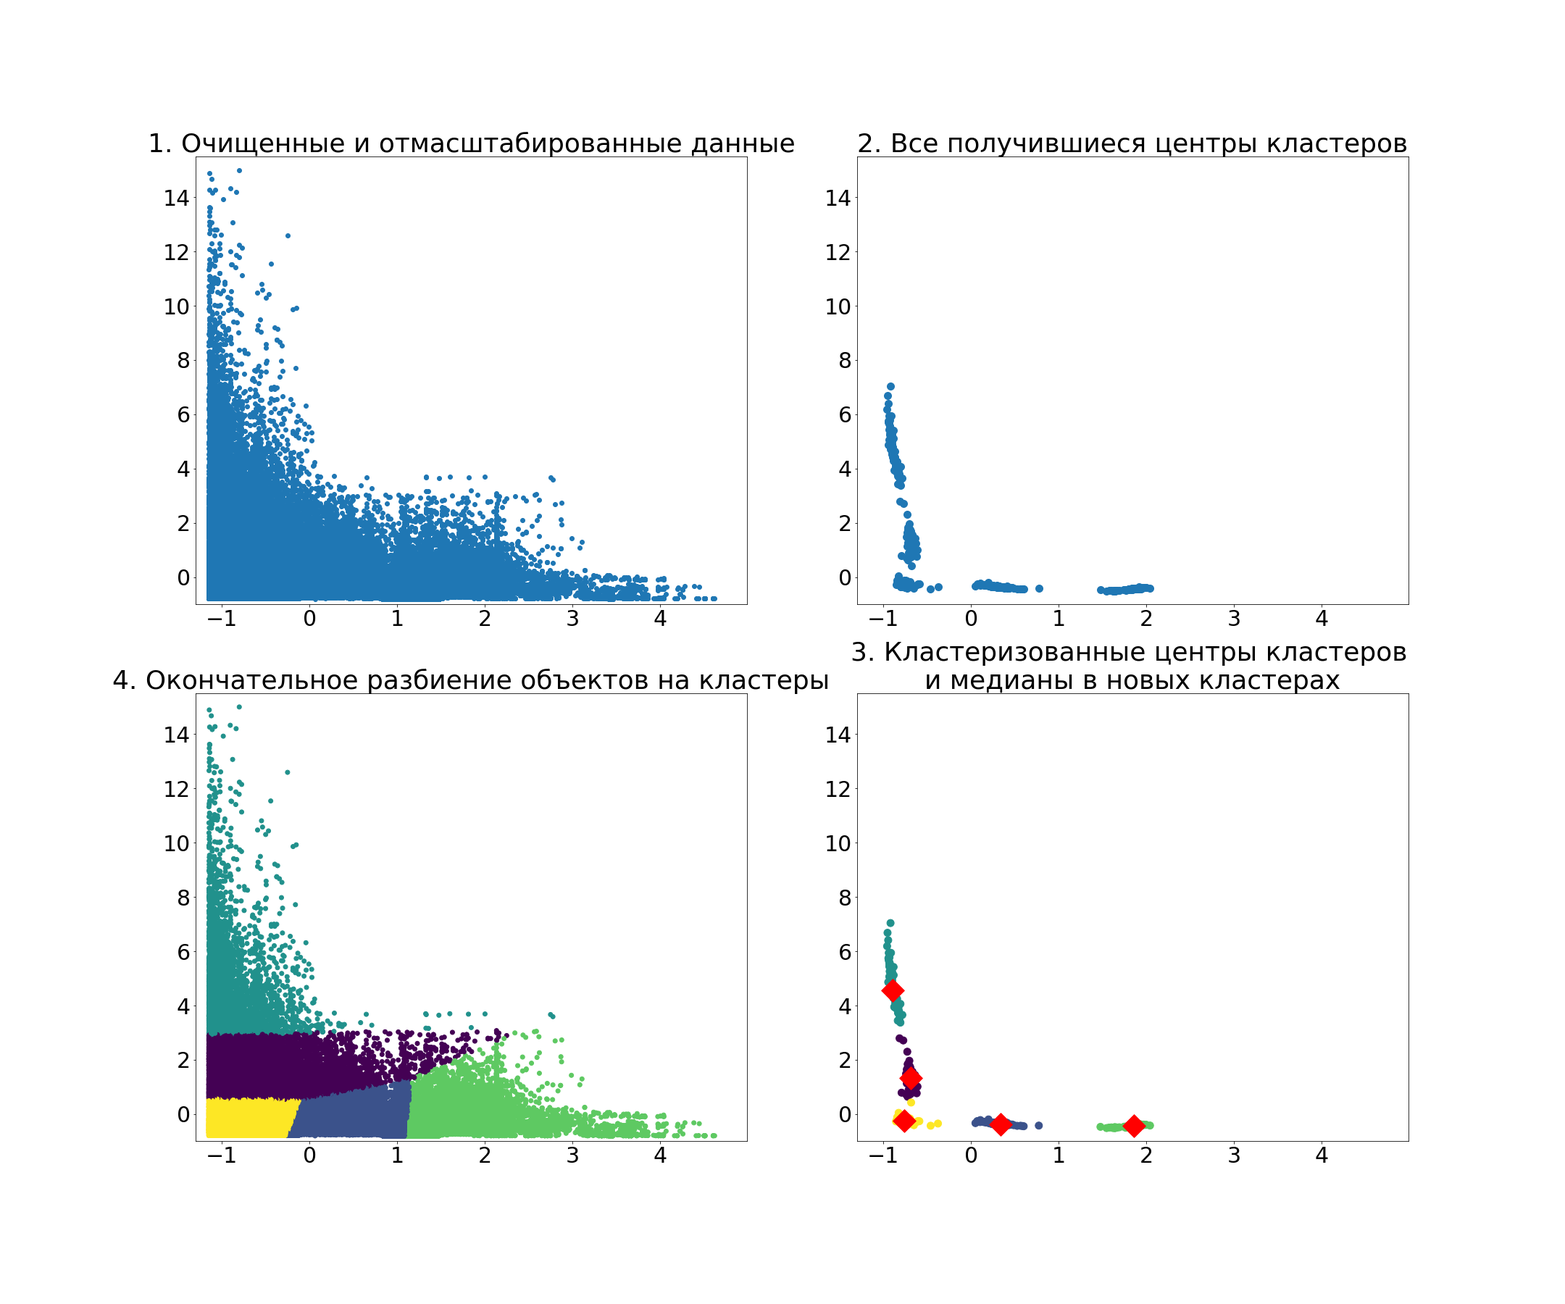
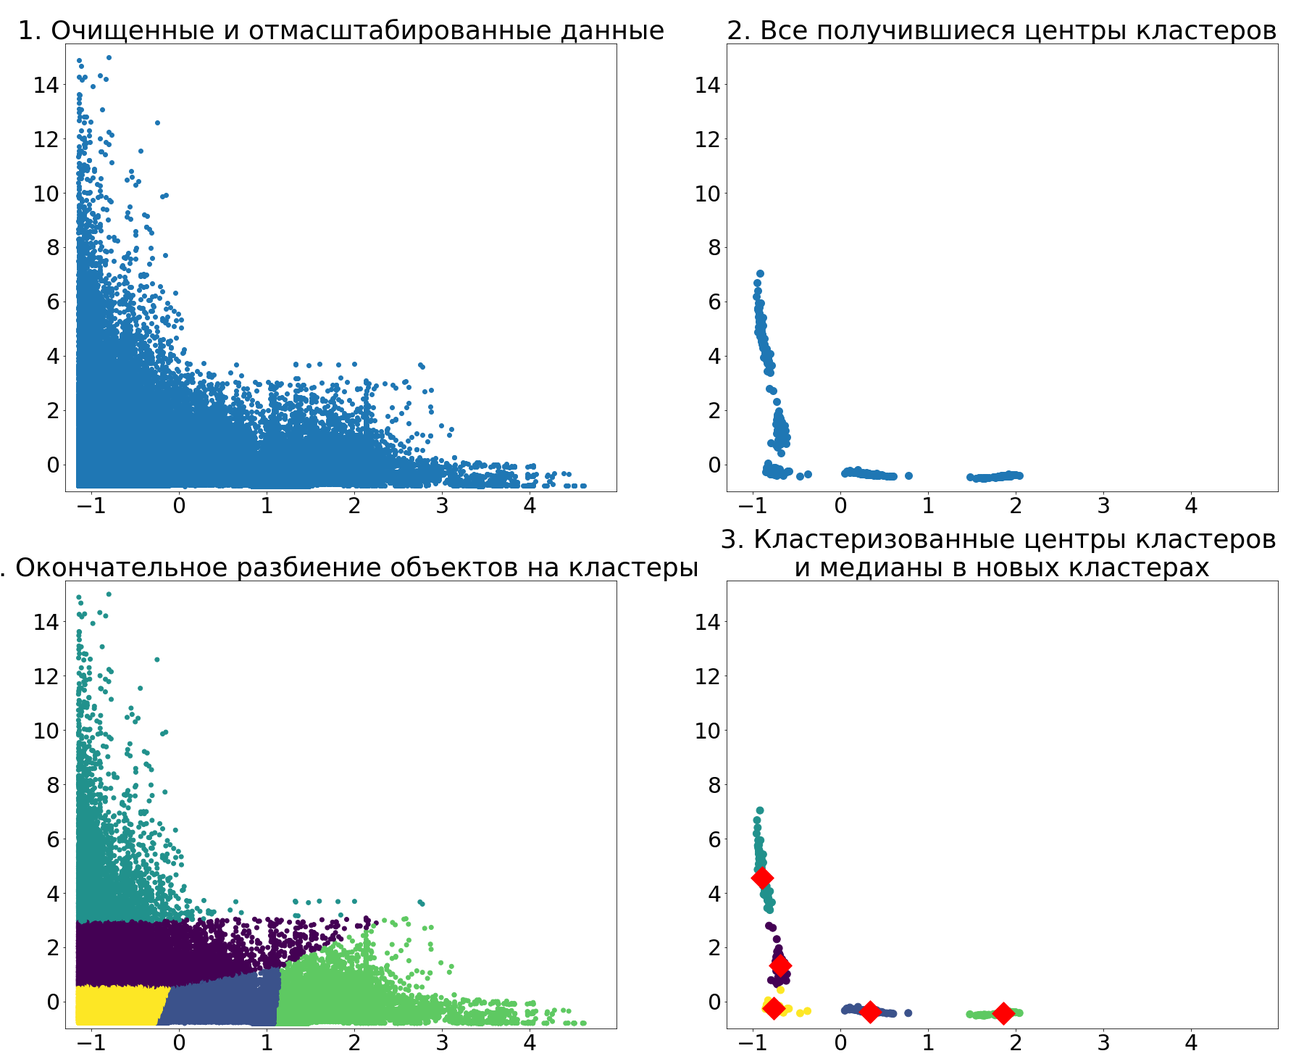
1-st edition

diff --git a/Статья/ArticleRFM .md b/Статья/ArticleRFM .md
@@ -107,11 +107,15 @@
 
 Ясное дело, прежде всего данные нужно очистить (ну, типа все величины неотрицательные). Об этом не буду подробно, скажу лишь, что обычно все было хорошо и лишь изредка на данном этапе отбрасывались 2-3 экземпляра.
 
-Обычно данные из базы примерно такие (здесь и далее использую 2D графику вместо 3D для понятности, а также не указываю размерности, т.к. особого значения они не имеют): ==картинка==
-А хотелось бы такие: ==картинка==
-Иначе вон тот чувак, который купил на 8млн станет отдельным кластером...
+Следующий этап -- удаление выбросов.
 
-Нужно удалять выбросы. Проще всего просто обрезать концы (ну, по 2 перцентиля сверху, скажем).
+На картинке ниже пример исходных данных и данных, которые хотелось бы видеть после обработки (здесь и далее использую 2D графику вместо 3D для понятности, а также не подписываю оси, т.к. особого значения они не имеют).
+
+<center><img src="Sample_raw_and_clean.png"></center>
+
+Тут сразу становится понятно, зачем нужен этот этап -- без него клиент, который на самом верху левой картинки имеет все шансы стать отдельным сегментом...
+
+Чтобы отделить выбросы, проще всего просто обрезать концы (ну, по 2 перцентиля сверху, скажем).
 
 Можно так и оставить, но мы предпочли применить умный метод (в качестве него выбрали [Local Outlier Factor](http://scikit-learn.org/stable/auto_examples/neighbors/plot_lof.html#sphx-glr-auto-examples-neighbors-plot-lof-py)). Этот нехитрый алгоритм сравнивает плотность каждого объекта с плотностям его соседей (а плотность объекта обратно пропорциональна расстоянию до ближайших соседей). Те, у кого это отличие наиболее значительно, считаются аномалиями. Только надо не забыть нормировать как-нибудь данные, а то он вас не поймет (ну, скажем, по M разница между соседями 1000, а по F -- 1, нехорошо).
 
@@ -139,9 +143,15 @@
 
 В общем, мы честно перепробовали все эти алгоритмы. Те из них, которые количество кластеров подбирают сами дают либо порядка 1000 штук, либо вообще 1 или 2. Ну да, это вам не колечки разделять. Про время работы и требования к памяти некоторых я вообще молчу. А про количество [гиперпараметров](https://www.quora.com/What-are-hyperparameters-in-machine-learning), которые непонятно как настраивать, тем более.
 
-Возьмем алгоритмы попроще -- те, что спрашивают у нас, сколько кластеров найти. Проблемы с гиперпараметрами и ресурсами  у многих остаются. (Я на полном серьезе: 50k сэмплов -- это максимум, на что хватает моих 16Гб памяти! При этом время кластеризации ~5-10 минут. Скажете, сервер мощнее? Да, только 50k -- это игрушечный пример, что делать, когда будет хотя бы 500k?)
+Возьмем алгоритмы попроще -- те, что спрашивают у нас, сколько кластеров найти. Проблемы с гиперпараметрами и ресурсами  у многих остаются. (Я на полном серьезе: 50k сэмплов -- это максимум, на что хватает моих 16Гб памяти, например для популярной агломеративной иерархической кла! При этом время кластеризации ~5-10 минут. Скажете, сервер мощнее? Да, только 50k -- это игрушечный пример, что делать, когда будет хотя бы 500k?)
 Но вот беда: многие из них плотностные, т.е. ищут кластеры как плотные сгустки объектов. Что же в этом плохого, спросите вы? По большому счету ничего, они как раз для этого создавались, и это правильно. Только вот, если помните, нам нужны будут прямоугольные сегменты, а плотные сгустки могут иметь форму весьма странную, и я ума не приложу, как распихивать эти загогулины по прямоугольнкам. 
-==картинка==
+
+С примером с картинок выше, где число объектов составляет ~185k такие алгоритмы как Affinity Propagation, Agglomerative Clusteringng, Spectral Clustering, Birch, Ward, Mean Shift (про всех них можно почитать [по ссылке выше](http://scikit-learn.org/stable/modules/clustering.html)).
+
+Вот результат, который я получил при помощи DBSCAN, который счел 55% объектов шумом, а остальные 84k разделил на 4302 кластера:
+
+<center><img src="Sample_DBSCAN.png", width=700></center>
+
 
 В конце концов после недели бесплодных экспериментов мы пришли к выводу, что не найдем ничего лучше, чем k-means. Да, тот самый простой и банальный k-means, который изучают на вводных курсах по ML. Его прелесть в том, что он не ищет загогулин, а просто группирует точки вокруг центров. И это работает.
 
@@ -153,7 +163,9 @@
 Решение, которое приходит в голову и которое предлагает интернет, -- запускать кластеризацию повторно. Самый надежный вариант: запускать столько раз, сколько объектов, по очереди исключая 1 объект из выборки. Но когда объектов пара сотен тысяч, процесс может слегка затянуться. Можно исключать не по одному объекту, а какую-то часть, скажем, 1%.
 Мы почти так и сделали -- только ничего не исключали, а брали разные random state и запускали 100 раз. MiniBatchKmeans работает настолько быстро, что даже на самой объемной выборке -- 2 млн объектов -- эти 100 запусков отрабатывают за несколько минут.
 
-После того, как получены 100 вариантов расположения центров кластеров, они все высыпаются в пространство (например, если делим на 12 кластеров, то это 1200 точек). Обычно они образуют неплохо различимые сгустки, а потому их можно смело кластеризовать тем же k-means. Когда получены кластеры, берем медиану в каждом из них и считаем ее реальным центром кластера. После чего просто определяем, какая точка к какому центру ближе. Весь процесс для отмасштабированных данных представлен ниже. ==картинка==
+После того, как получены 100 вариантов расположения центров кластеров, они все высыпаются в пространство (например, если делим на 12 кластеров, то это 1200 точек). Обычно они образуют неплохо различимые сгустки, а потому их можно смело кластеризовать тем же k-means. Когда получены кластеры, берем медиану в каждом из них и считаем ее реальным центром кластера. После чего просто определяем, какая точка к какому центру ближе. Весь процесс для отмасштабированных данных представлен ниже.
+
+<center><img src="Clustering_cluster_centers.png"></center>
 
 Еще один нерешенный вопрос -- как определить количество кластеров. Есть много [метрик](http://scikit-learn.org/stable/modules/clustering.html#clustering-performance-evaluation), которые показывают качество разбиения. Часть из них используют знания об истинном разбиении -- это не для реальных задач. Остальные готовы работать и без этого.
 Но из-за структуры данных и ограничения на число кластеров эти метрики (например, популярный [Silhouette](https://en.wikipedia.org/wiki/Silhouette_(clustering)) выдавали результаты не вполне адекватные. 
@@ -173,11 +185,16 @@
 
 Алгоритмы, реализующие решающее дерево -- это алгоритмы машинного обучения, они принимают на вход множество точек и метки, которые определяют, к какому классу каждая точка относится. Затем пространство разделяется так, чтобы как можно больше точек с одинаковыми метками оказались в одной области. У нас в качестве меток выступали метки кластеров, полученные на предыдущем этапе.
  
-Можно ли сделать так, чтобы все точки оказались в нужных областях? Разумеется, да. Но выглядеть это будет примерно вот так: ==картинка==
+Можно ли сделать так, чтобы все точки оказались в нужных областях? Разумеется, да. А как это будет выглядеть, покажу чуть позже.
 
-Поэтому нужно ограничивать такие параметры как глубина дерева и число листьев. А то, насколько хорошо их ограничили, проверяется на кросс-валидации -- это процесс, когда дереву для обучения дается только часть объектов, скажем, 2/3, а на остальных проверяется качество. Если дерево будет слишком точно отделять объекты при обучении, то при тестировании новые объекты будут часто попадать в чужие области и качество будет низким. Поэтому качество обычно оказывается высоким при небольших глубине и числе листьев, что нам вполне подходит -- чем меньше областей, тем проще их понять. В качестве метрики качества используем [F-score](https://en.wikipedia.org/wiki/F1_score).
+Пока просто поверьте, что нужно ограничивать такие параметры как глубина дерева и число листьев. А то, насколько хорошо их ограничили, проверяется на кросс-валидации -- это процесс, когда дереву для обучения дается только часть объектов, скажем, 2/3, а на остальных проверяется качество. Если дерево будет слишком точно отделять объекты при обучении, то при тестировании новые объекты будут часто попадать в чужие области и качество будет низким. Поэтому качество обычно оказывается высоким при небольших глубине и числе листьев, что нам вполне подходит -- чем меньше областей, тем проще их понять. В качестве метрики качества используем [F-score](https://en.wikipedia.org/wiki/F1_score).
 
-Как происходит чудесное преобразование и какое при этом получается дерево:==картинка==
+Вот пример того, как происходит чудесное преобразование и какое при этом получается дерево:
+<center><img src="Tree_cutting.png", width=10000></center>
+<center>Дерево<img src="Tree_itself.png", width=10000></center>
+
+А вот обещанный пример того, что может быть, если ничего не ограничивать (дерево для тех же данных):
+<center><img src="Big_tree.png", width=10000></center>
 
 Как говорилось выше, количество кластеров может уменьшиться: поскольку мы ограничиваем дерево, оно выбирает только наиболее важные области, а если в каком-то кластеров было слишком мало объектов, он просто перестает существовать.
 
